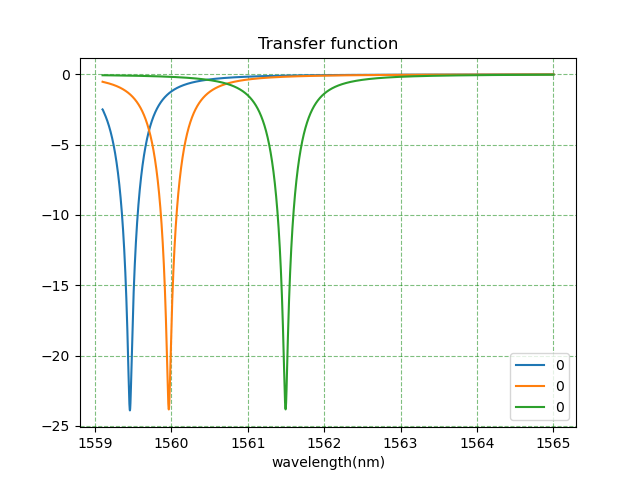
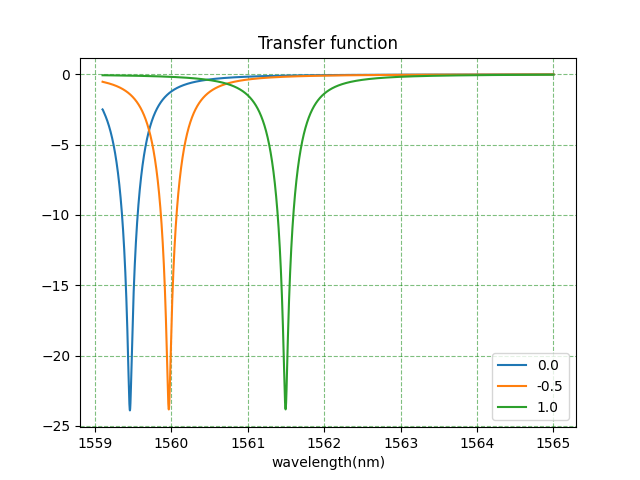
20250429

diff --git a/doping_concentration.py b/doping_concentration.py
@@ -54,7 +54,7 @@ Cj = C_parallel+Cf+C_top+C_bottom;
 # Cj = t*La*(q*a*epsilon**2/ (12*(V0-V)))**(1/3)
 
 plt.plot(V,Cj,label="deduced Cj")
-# plt.plot(V,Cj_per_mm,label="Cj per mm")
+plt.plot(V,C_parallel,label="C parallel")
 # plt.plot(V,cj_pdk,label="PDK data")
 plt.scatter([0,-1,-2],[23.6*1e-15,20*1e-15,18.5*1e-15],label="PDK discrete data",marker='o',c='r')
 plt.legend()

diff --git a/heater_test.py b/heater_test.py
@@ -119,7 +119,7 @@ if sim.mode == "scan_frequency":
         wl,data = T.mapping((abs(s_minus)**2/sim.Pin))
         wl,data_phase = T.mapping(180/np.pi*np.angle(s_minus))
         plt.plot(wl*1000,dB(data),
-                    label=str((v_bias)))
+                    label=str((V)))
     i+=1
     
     plt.grid(color='g',linestyle='--', alpha=0.5)
